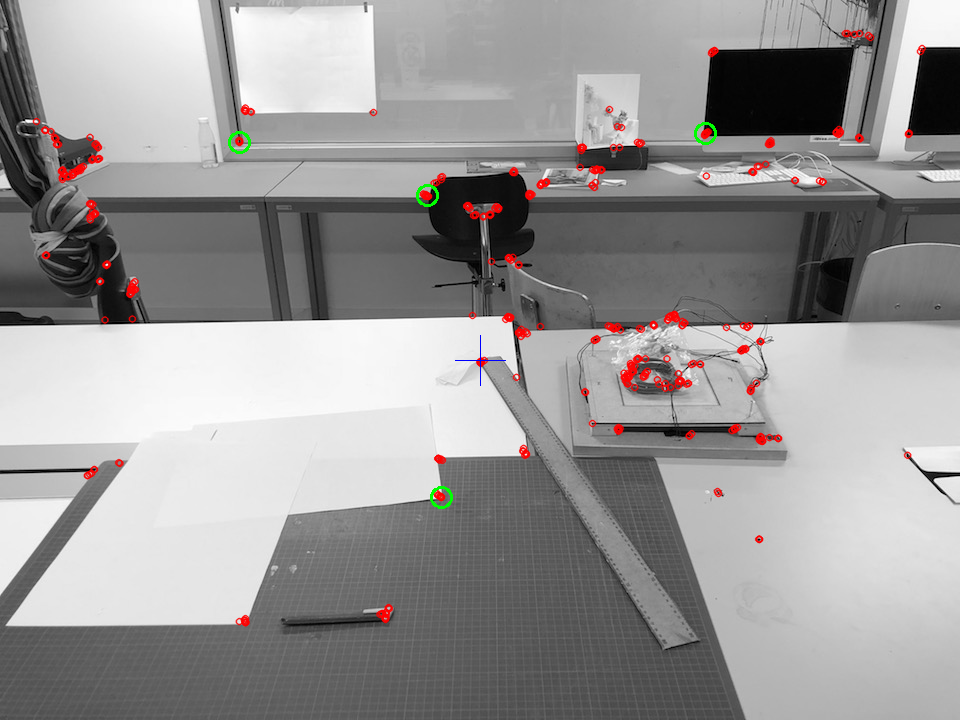
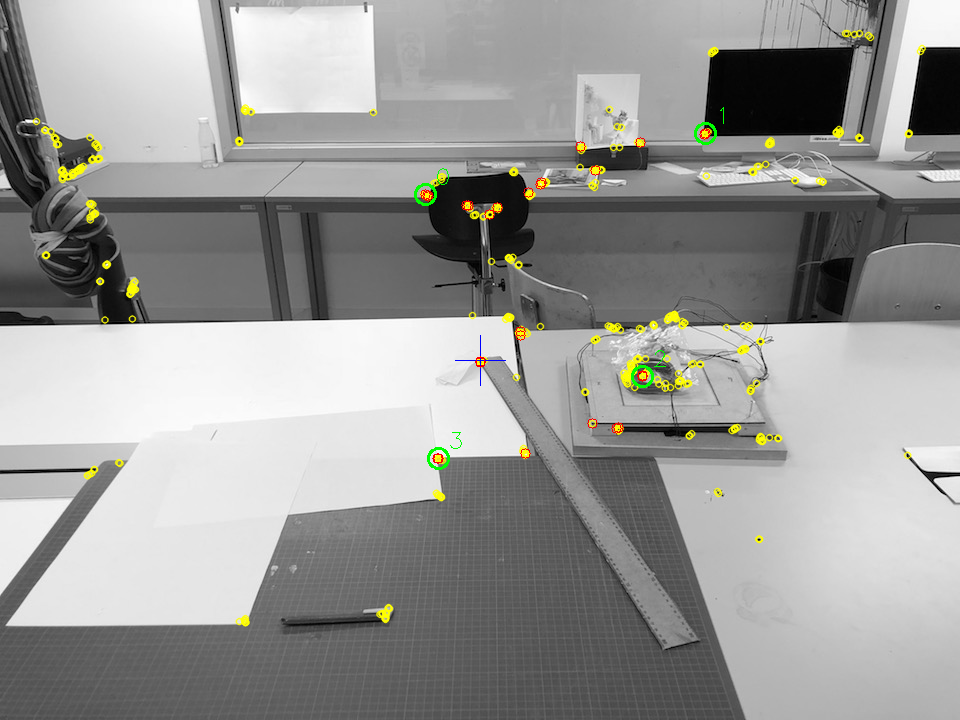
added average point for initial point before 4 corner selection

diff --git a/src/main/kotlin/ch/bildspur/ivat/vision/SimplePerspectiveTransformer.kt b/src/main/kotlin/ch/bildspur/ivat/vision/SimplePerspectiveTransformer.kt
@@ -53,9 +53,6 @@ class SimplePerspectiveTransformer(private val nTopFeatures: Int = 20) : Perspec
 
         // select n top features
         matches.sortBy { it.distance }
-        matches.forEachIndexed { i, o ->
-            println("$i:\t${o.distance.format(4)}")
-        }
         val topMatches = matches.take(nTopFeatures)
 
         // draw relevant keypoints
@@ -90,7 +87,13 @@ class SimplePerspectiveTransformer(private val nTopFeatures: Int = 20) : Perspec
 
 
     private fun findTransformationPoints(matches: List<DMatch>, queryFeatures: List<KeyPoint>): KeyPointRectangle {
-        val rectangle = KeyPointRectangle(queryFeatures[matches.first().queryIdx], matches.first())
+        // find center of points
+        val avgX = matches.sumByDouble { queryFeatures[it.queryIdx].pt.x } / matches.count()
+        val avgY = matches.sumByDouble { queryFeatures[it.queryIdx].pt.y } / matches.count()
+
+        val initialPoint = KeyPoint(avgX.toFloat(), avgY.toFloat(), 1.0f)
+
+        val rectangle = KeyPointRectangle(initialPoint, DMatch(0, 0, 0.0f))
         matches.forEach { rectangle.addPoint(queryFeatures[it.queryIdx], it) }
         return rectangle
     }

diff --git a/src/test/kotlin/ch/bildspur/ivat/SingleTransformTest.kt b/src/test/kotlin/ch/bildspur/ivat/SingleTransformTest.kt
@@ -1,6 +1,5 @@
 package ch.bildspur.ivat
 
-import ch.bildspur.ivat.ui.ImageView
 import ch.bildspur.ivat.vision.SimplePerspectiveTransformer
 import ch.bildspur.ivat.vision.copy
 import ch.bildspur.ivat.vision.zeros
